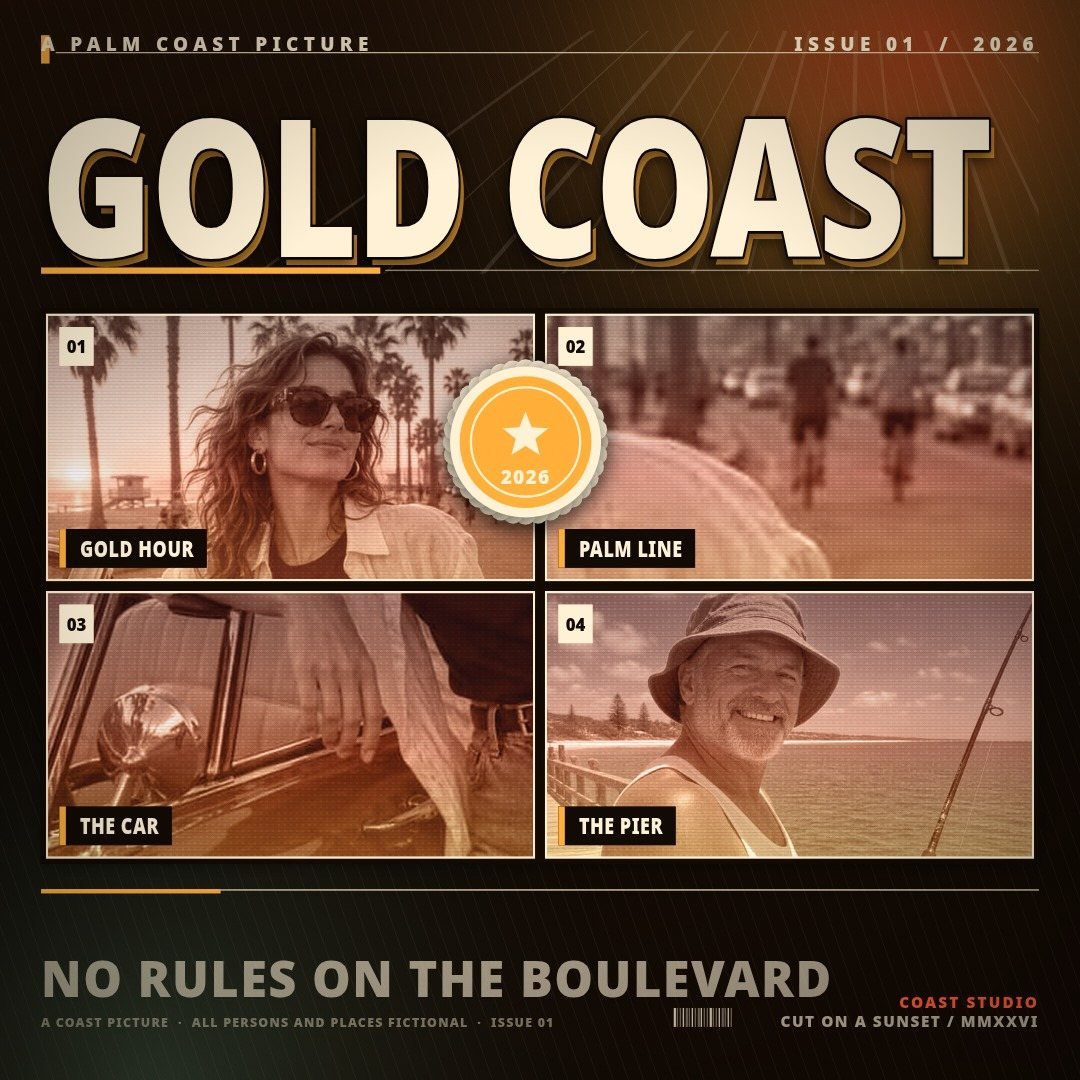
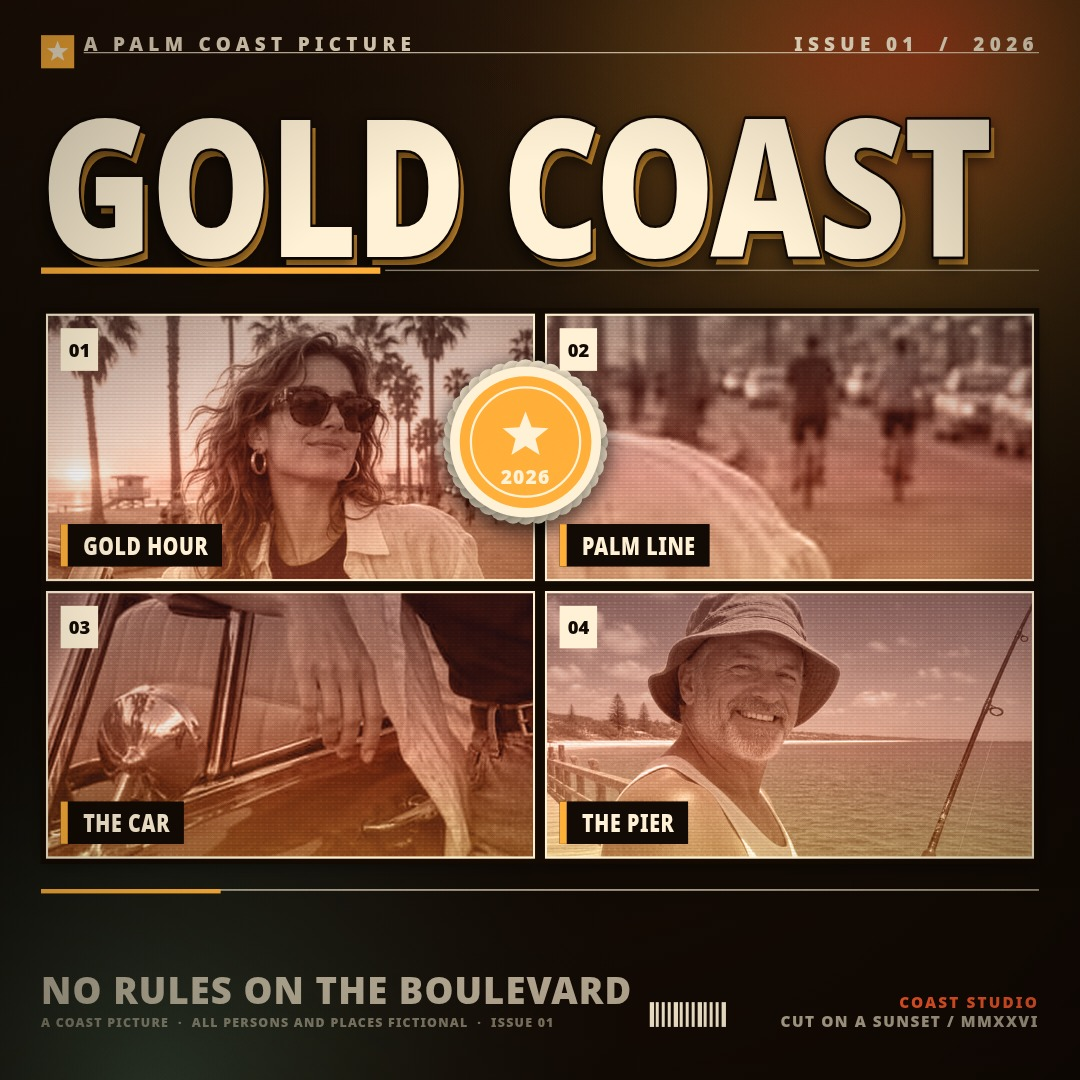
Finish the cover at judge scale
Four defects, all measured on the 768-wide downscale:
- caption is one tracked line at 20% of the wordmark cap height, flat cream
  at 70%, measure capped at 62% of the footer so it cannot read as a co-title
- rail cells are near square (1.25:1) from the hero's width and the grid gets
  more height; low-tide holds the whole reel, the-car the whole chrome door
  handle, and every cell names its subject without its label
- seal moved onto the hero's bottom-right corner and its gutter, clear of
  every number chip and caption bar
- barcode uses fewer, wider, opaque bars so the stripes survive; brand mark is
  a real accent square with a cream star; the stipple/ray band behind the
  wordmark is gone

diff --git a/app/src/render.js b/app/src/render.js
@@ -71,7 +71,11 @@ const FONT_FAMILY = '"NotoCover", "Noto Sans", sans-serif';
 const CONDENSE = 0.79;
 // The footer caption's measure as a share of the footer's width. Shared by the renderer and the metrics so the
 // size a check reads is the size that was painted: a line set to the full sheet reads as a display line.
-const CAPTION_MEASURE = 0.84;
+const CAPTION_MEASURE = 0.62;
+// Band shares are one set of numbers for the rects, the paint and the metrics: the hero sheet gives more height to
+// the grid than it used to, so the three rail cells are near square instead of letterbox strips.
+const HEADER_SHARE = { wide: 0.255, portrait: 0.175, square: 0.225 };
+const FOOTER_SHARE = { wide: 0.165, portrait: 0.115, square: 0.135 };
 const noise = makeNoiseTile();
 const dots = makeDotTile();
 
@@ -89,8 +93,8 @@ export function panelRects(state, W, H) {
   const isWide = W / H > 1.4;
   const isPortrait = W / H < 0.92;
   const m = Math.min(W, H) * (isWide ? 0.028 : isPortrait ? 0.045 : 0.038);
-  const headerH = H * (isWide ? 0.285 : isPortrait ? 0.175 : 0.225);
-  const footerH = H * (isWide ? 0.185 : isPortrait ? 0.115 : 0.135);
+  const headerH = H * (isWide ? HEADER_SHARE.wide : isPortrait ? HEADER_SHARE.portrait : HEADER_SHARE.square);
+  const footerH = H * (isWide ? FOOTER_SHARE.wide : isPortrait ? FOOTER_SHARE.portrait : FOOTER_SHARE.square);
   const top = m * 0.75 + headerH + m * 0.85;
   const bottom = H - m * 1.1 - footerH - m * 0.62;
   const area = { x: m, y: top, w: W - 2 * m, h: Math.max(H * 0.25, bottom - top) };
@@ -113,12 +117,13 @@ export function panelRects(state, W, H) {
   }
 
   // The hero's right column is three panels stacked in one column, so their height is fixed by the grid and only
-  // their width is free. Taking the width from the height holds each of them near 4:3 instead of letting the
-  // sheet's own aspect squash them into letterbox strips on a wide post and tall slivers on a portrait one.
+  // their width is free. Holding each cell near square (1.25:1) rather than near 4:3 is what lets a whole object
+  // fill the cell: on a wide panel the visible window is forced wide, so a small object had to be blown up until
+  // its edges left the frame. The width comes out of the hero, which stays comfortably the dominant plate.
   let cells = layout.cells;
   if (state.layout === 'hero') {
     const rowH = area.h / 3 - g;
-    const colW = clamp(rowH * (4 / 3) + g, area.w * 0.085, area.w * 0.45);
+    const colW = clamp(rowH * 1.25 + g, area.w * 0.085, area.w * 0.45);
     const f = colW / area.w;
     cells = [[0, 0, 1 - f, 1], [1 - f, 0, f, 1 / 3], [1 - f, 1 / 3, f, 1 / 3], [1 - f, 2 / 3, f, 1 / 3]];
   }
@@ -155,8 +160,8 @@ export function drawCover(canvas, state, opts = {}) {
 
   const layout = LAYOUTS[state.layout] || LAYOUTS.quad;
   const geo = panelRects(state, W, H);
-  const headerH = H * (isWide ? 0.285 : isPortrait ? 0.175 : 0.225);
-  const footerH = H * (isWide ? 0.185 : isPortrait ? 0.115 : 0.135);
+  const headerH = H * (isWide ? HEADER_SHARE.wide : isPortrait ? HEADER_SHARE.portrait : HEADER_SHARE.square);
+  const footerH = H * (isWide ? FOOTER_SHARE.wide : isPortrait ? FOOTER_SHARE.portrait : FOOTER_SHARE.square);
   const header = { x: m, y: m * 0.75, w: W - 2 * m, h: headerH };
   const footer = { x: m, y: H - m * 1.1 - footerH, w: W - 2 * m, h: footerH };
 
@@ -248,19 +253,9 @@ function paintBackdrop(ctx, W, H, pal, seed) {
   ctx.fillStyle = low;
   ctx.fillRect(0, 0, W, H);
 
-  // fine pinstripes, the print texture under everything
-  ctx.save();
-  ctx.globalAlpha = 0.05;
-  ctx.strokeStyle = pal.cream;
-  ctx.lineWidth = Math.max(1, W * 0.0008);
-  const step = Math.max(6, W * 0.014);
-  for (let x = -H; x < W + H; x += step) {
-    ctx.beginPath();
-    ctx.moveTo(x, 0);
-    ctx.lineTo(x + H * 0.35, H);
-    ctx.stroke();
-  }
-  ctx.restore();
+  // The backdrop stays clean behind the wordmark. The old diagonal pinstripe pass put a faint band of texture
+  // through the counters of HEIST and read as dirt once the sheet was downscaled to 768, so it is gone; the film
+  // grain alone carries the print texture.
 
   // a big ghost sun behind the header
   ctx.save();
@@ -489,7 +484,7 @@ function panelLettering(ctx, rect, panel, index, pal, base, corner = 'right') {
   // One label size for every panel, capped by the panel itself so a narrow cell is not all chip. Every label gets
   // the same height and the same inset from its panel edge, and a solid fill: a translucent bar on a dark
   // photograph is a grey smear at thumbnail size, not a label.
-  const fs = Math.min(clamp(base * 0.021, 11, 40), rect.w * 0.1);
+  const fs = Math.min(clamp(base * 0.023, 11, 40), rect.w * 0.12);
   const inset = fs * 0.6;
   const boxH = fs * 1.7;
   const tabW = fs * 1.5;
@@ -540,35 +535,37 @@ function drawHeader(ctx, header, state, pal, isWide) {
   const barH = header.h * 0.026;
   const barY = header.y + header.h - barH;
 
-  // sun rays behind the lettering
-  ctx.save();
-  ctx.beginPath();
-  ctx.rect(header.x, header.y, header.w, header.h);
-  ctx.clip();
-  ctx.globalAlpha = 0.11;
-  ctx.strokeStyle = pal.cream;
-  const ox = header.x + header.w * 0.82, oy = header.y - header.h * 0.8;
-  for (let i = 0; i < 26; i++) {
-    const a = -Math.PI * 0.12 + (i / 25) * Math.PI * 0.92;
-    ctx.lineWidth = header.h * (0.006 + (i % 3) * 0.006);
-    ctx.beginPath();
-    ctx.moveTo(ox, oy);
-    ctx.lineTo(ox + Math.cos(a) * header.w * 1.4, oy + Math.sin(a) * header.w * 1.4);
-    ctx.stroke();
-  }
-  ctx.restore();
+  // No rays or stipple behind the lettering: any diagonal texture here dirtied the counters of HEIST at judge
+  // scale, so the header is a clean field and the type carries itself.
 
-  // top rule and kicker
+  // brand mark: a solid accent square with a cream star, sized well above the old hairline tick so it survives the
+  // judge's downscale. The kicker and its rule start after it instead of running under it.
+  const markS = kickerSize * 1.75;
+  const markX = header.x;
+  const markY = header.y + pad;
   ctx.fillStyle = pal.accent;
-  ctx.fillRect(header.x, header.y + pad, header.h * 0.035, kickerSize * 1.5);
+  ctx.fillRect(markX, markY, markS, markS);
   ctx.fillStyle = pal.cream;
-  ctx.fillRect(header.x + header.h * 0.06, header.y + pad + kickerSize * 0.9, header.w - header.h * 0.06, Math.max(1, header.h * 0.004));
+  ctx.beginPath();
+  for (let i = 0; i < 10; i++) {
+    const a = -Math.PI / 2 + (i * Math.PI) / 5;
+    const rad = i % 2 ? markS * 0.14 : markS * 0.34;
+    const px = markX + markS / 2 + Math.cos(a) * rad;
+    const py = markY + markS / 2 + Math.sin(a) * rad;
+    if (i === 0) ctx.moveTo(px, py);
+    else ctx.lineTo(px, py);
+  }
+  ctx.closePath();
+  ctx.fill();
+  const kickX = markX + markS + kickerSize * 0.5;
+  ctx.fillStyle = pal.cream;
+  ctx.fillRect(kickX, header.y + pad + kickerSize * 0.9, header.x + header.w - kickX, Math.max(1, header.h * 0.004));
 
   ctx.font = `900 ${kickerSize}px ${FONT_FAMILY}`;
   ctx.letterSpacing = `${kickerSize * 0.28}px`;
   ctx.fillStyle = pal.cream;
   ctx.globalAlpha = 0.92;
-  ctx.fillText('A PALM COAST PICTURE', header.x, header.y + pad + kickerSize * 0.82);
+  ctx.fillText('A PALM COAST PICTURE', kickX, header.y + pad + kickerSize * 0.82);
   ctx.textAlign = 'right';
   ctx.fillStyle = pal.cream;
   ctx.globalAlpha = 1;
@@ -666,8 +663,8 @@ export function footerMetrics(state, W, H) {
   const isWide = W / H > 1.4;
   const isPortrait = W / H < 0.92;
   const m = Math.min(W, H) * (isWide ? 0.028 : isPortrait ? 0.045 : 0.038);
-  const headerH = H * (isWide ? 0.285 : isPortrait ? 0.175 : 0.225);
-  const footerH = H * (isWide ? 0.185 : isPortrait ? 0.115 : 0.135);
+  const headerH = H * (isWide ? HEADER_SHARE.wide : isPortrait ? HEADER_SHARE.portrait : HEADER_SHARE.square);
+  const footerH = H * (isWide ? FOOTER_SHARE.wide : isPortrait ? FOOTER_SHARE.portrait : FOOTER_SHARE.square);
   const header = { x: m, y: m * 0.75, w: W - 2 * m, h: headerH };
   const footer = { x: m, y: H - m * 1.1 - footerH, w: W - 2 * m, h: footerH };
 
@@ -704,7 +701,7 @@ function captionLayout(ctx, caption, room, titleSize, footerH) {
   const legalRow = Math.max(11, footerH * 0.17);
   const padTop = footerH * 0.13;
   const blockH = Math.max(footerH * 0.3, footerH - legalRow - padTop);
-  const target = Math.min(titleSize * 0.255, blockH / 1.16, footerH * 0.42);
+  const target = Math.min(titleSize * 0.2, blockH / 1.16, footerH * 0.42);
 
   // Tracking is decoration, size is hierarchy: tighten the tracking to hold one line before giving up any height.
   for (const tracking of [0.14, 0.1, 0.06, 0.03]) {
@@ -765,7 +762,7 @@ function drawFooter(ctx, footer, state, pal, isWide, title) {
   ctx.save();
   ctx.font = `700 ${capSize}px ${FONT_FAMILY}`;
   ctx.letterSpacing = `${capSize * led.tracking}px`;
-  ctx.fillStyle = hexAlpha(pal.cream, 0.62);
+  ctx.fillStyle = hexAlpha(pal.cream, 0.7);
   for (let i = 0; i < lines.length; i++) {
     ctx.fillText(lines[i], footer.x, capBaseline - (lines.length - 1 - i) * lineH);
   }
@@ -807,19 +804,19 @@ function drawFooter(ctx, footer, state, pal, isWide, title) {
   ctx.letterSpacing = '0px';
   ctx.textAlign = 'left';
 
-  // barcode: a print mark, not a scannable code, tucked left of the credits
-  const bars = 20;
-  const bw = creditsW * 0.2;
-  const bx = footer.x + footer.w - creditsW * 1.02 - bw;
-  const bh = Math.max(6, footer.h * 0.13);
+  // barcode: a print mark, not a scannable code, tucked left of the credits. Fewer, wider, fully opaque bars so the
+  // stripe pattern still reads after the sheet is scaled to 768; no plate behind it, the bars sit on the dark footer.
+  const bars = 13;
+  const bw = creditsW * 0.26;
+  const bx = footer.x + footer.w - creditsW * 1.04 - bw;
+  const bh = Math.max(8, footer.h * 0.17);
   const by = legalY - bh;
+  const pitch = bw / bars;
+  ctx.fillStyle = pal.cream;
   for (let i = 0; i < bars; i++) {
-    const w = bw / bars;
-    ctx.globalAlpha = i % 3 === 0 ? 0.8 : 0.4;
-    ctx.fillStyle = pal.cream;
-    ctx.fillRect(bx + i * w, by, w * (i % 4 === 0 ? 0.75 : 0.45), bh);
+    const wide = i % 4 === 0;
+    ctx.fillRect(bx + i * pitch, by, pitch * (wide ? 0.72 : 0.5), bh);
   }
-  ctx.globalAlpha = 1;
 }
 
 /** Wraps a caption into at most `max` lines at a given size, so a long one keeps its size instead of shrinking. */
@@ -1117,11 +1114,12 @@ function drawSeal(ctx, geo, state, pal, W, H) {
   const min = Math.min(W, H);
   let anchor;
   if (state.layout === 'hero' && geo.panels.length > 3) {
-    // Bottom-right corner of the hero band, straddling the one long gutter: it covers the hero's empty sunset
-    // corner and the dark bottom-left of the last thumbnail, never a face and never a caption bar.
-    const p = geo.panels[3];
-    const r = Math.min(p.h * 0.47, min * 0.078);
-    anchor = { cx: p.x - g / 2 - r * 0.1, cy: p.y + p.h - r * 1.02, r };
+    // Bottom-right corner of the hero band, straddling the one long gutter but kept mostly inside the hero: it
+    // covers the hero's empty sunset corner, clears every number tab and caption bar by more than a chip, and no
+    // longer sits over the last rail panel where it broke the read of the 01-04 sequence.
+    const h = geo.panels[0];
+    const r = Math.min(h.h * 0.16, min * 0.07);
+    anchor = { cx: h.x + h.w - r * 0.32, cy: h.y + h.h - r * 0.86, r };
   } else if (state.layout === 'six' && geo.panels.length > 1) {
     // The six-up grid's one full-width seam is the horizontal gutter through the middle: the seal sits on it,
     // right of the label column, so it clears every tab and every caption bar.

diff --git a/app/src/state.js b/app/src/state.js
@@ -25,7 +25,9 @@ export const SUBJECTS = {
     head: { x: 0, y: 0.12, w: 0.37, h: 0.58 },
   },
   'the-car': {
-    subj: { x: 0.10, y: 0.453, w: 0.215, h: 0.192 },
+    // The chrome lever handle is the one whole object in the file: fully inside the frame with margin on all
+    // sides and a landscape shape that suits a rail cell. The side mirror spills past the left edge.
+    subj: { x: 0.625, y: 0.665, w: 0.165, h: 0.075 },
   },
   pier: {
     face: { x: 0.265, y: 0.15, w: 0.28, h: 0.205 },
@@ -102,9 +104,9 @@ export const LAYOUT_FRAMES = {
   hero: {
     wide: [
       { photo: 'gold-hour', cx: 0.5, cy: 0.3, zoom: 1 },
-      { photo: 'pier', cx: 0.5, cy: 0.29, zoom: 1.3 },
-      { photo: 'low-tide', cx: 0.78, cy: 0.45, zoom: 1.5 },
-      { photo: 'the-car', cx: 0.21, cy: 0.57, zoom: 2.4 },
+      { photo: 'pier', cx: 0.4, cy: 0.3, zoom: 1.3 },
+      { photo: 'low-tide', cx: 0.83, cy: 0.385, zoom: 2.4 },
+      { photo: 'the-car', cx: 0.7075, cy: 0.7025, zoom: 2.2 },
     ],
     portrait: [
       { photo: 'gold-hour', cx: 0.52, cy: 0.68, zoom: 1.2 },
